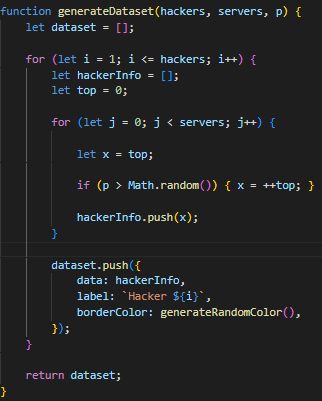
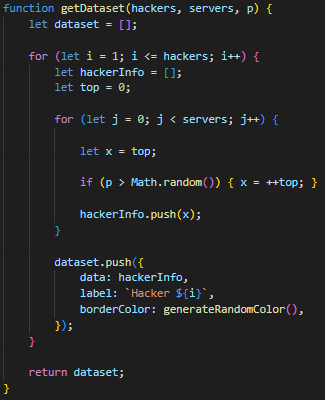
update hw1

diff --git a/_posts/statistics/2022-08-26-hw1.md b/_posts/statistics/2022-08-26-hw1.md
@@ -156,22 +156,181 @@ Other techniques such as **unnormalized arithmetic** and **interval arithmetic**
 [Online Attack Simulation](https://raffo24.github.io/statistics/hw1_code/)
 
 ## Main Function
-![image-center](/assets/images/blog/statistics/codes/mainFunHw1.png){: .align-center}
 
-This is the core function of the program, which executes the following steps:
-1. **Input Validation**: The function performs validation on the input to prevent potential errors and bugs.
-2. **Array Population**: It populates the `servers` and `hackers` arrays with sequential numbers.
-3. **Dataset Generation**: Using the `getDataset` function (which will be discussed later), it generates the dataset.
-4. **Maximum Breach Calculation**: It extracts the highest number of breaches performed by a single hacker from the dataset.
-5. **Interval Selection**: Based on a series of conditions, it determines the number of intervals to divide the breaches into.
-6. **Interval Window Calculation**: It calculates the window size for each interval based on the total number of breaches and the selected number of intervals.
-7. **Dataset Division**: The dataset is then divided into the relevant intervals for histogram plotting and distribution calculation.
-8. **Empty Space Removal**: Any leading empty spaces in the histogram are removed to ensure accurate visualization.
-9. **Plotting**: Finally, the program generates both the Flat Line Graph and the histogram for visual analysis.
+
+```javascript
+function generateGraphs() {
+    const n_servers = parseInt(document.getElementById('n').value);
+    const n_hackers = parseInt(document.getElementById('m').value);
+    const p = parseFloat(document.getElementById('p').value);
+
+    // Validate input
+    if (n_servers < 2 || n_servers > 500 || n_hackers < 1 || n_hackers > 500 || p < 0 || p > 1) {
+        alert('Please enter values in these intervals:\n- 2-500 for servers\n- 1-500 for hackers\n- 0-1 for probability.');
+        return;
+    }
+
+    const servers = [];
+    for (let i = 1; i <= n_servers; i++) { servers.push(i); }
+
+    const hackers = [];
+    for (let i = 1; i <= n_hackers; i++) { hackers.push(i); }
+
+    const breachDatasets = getDataset(hackers.length, servers.length, p);
+
+    const maxSuccesses = Math.max(...breachDatasets.flatMap(dataset => dataset.data));
+
+    let intervalCount = 5;
+    if (maxSuccesses >= 20) {
+        intervalCount = 15;
+    } else if (maxSuccesses >= 50) {
+        intervalCount = 30;
+    } else if (maxSuccesses >= 100) {
+        intervalCount = 87;
+    } else if (maxSuccesses >= 200) {
+        intervalCount = 170;
+    } else if (maxSuccesses >= 300) {
+        intervalCount = 270;
+    } else if (maxSuccesses >= 400) {
+        intervalCount = 390;
+    }
+
+    const intervalSize = Math.ceil(maxSuccesses / intervalCount);
+    const intervals = Array.from({ length: intervalCount }, (_, i) => `${i * intervalSize}-${(i + 1) * intervalSize}`);
+
+    const distributionCounts = Array(intervalCount).fill(0);
+    breachDatasets.forEach(dataset => {
+        const index = Math.floor(dataset.data.at(-1) / intervalSize);
+        if (index >= 0 && index < intervalCount) { distributionCounts[index]++; }
+    });
+
+    while (distributionCounts[0] === 0) {
+        distributionCounts.shift();
+        intervals.shift();
+    }
+
+    plotFlatLineChart(servers, hackers, breachDatasets);
+    plotHistogram(intervals, distributionCounts);
+
+    document.getElementById('charts').style.display = 'flex';
+}
+```
+
+1. **Input Parsing**: The function starts by retrieving the values from the HTML input fields for `n_servers` (number of servers), `n_hackers` (number of hackers), and `p` (probability of a successful breach). These values are parsed and stored in variables:
+   ```javascript
+   const n_servers = parseInt(document.getElementById('n').value);
+   const n_hackers = parseInt(document.getElementById('m').value);
+   const p = parseFloat(document.getElementById('p').value);
+   ```
+
+2. **Input Validation**: It checks if the input values are within the acceptable ranges. If `n_servers` or `n_hackers` are outside the ranges (2 to 500 for servers and 1 to 500 for hackers), or if `p` is not between 0 and 1, the function issues an alert and exits:
+   ```javascript
+   if (n_servers < 2 || n_servers > 500 || n_hackers < 1 || n_hackers > 500 || p < 0 || p > 1) {
+      alert('Please enter values in these intervals:\n- 2-500 for servers\n- 1-500 for hackers\n- 0-1 for probability.');
+      return;
+   }
+   ```
+
+3. **Array Population**: It creates two arrays, `servers` and `hackers`, each populated with sequential numbers representing server and hacker IDs:
+   ```javascript
+   const servers = [];
+   for (let i = 1; i <= n_servers; i++) { servers.push(i); }
+
+   const hackers = [];
+   for (let i = 1; i <= n_hackers; i++) { hackers.push(i); }
+   ```
+
+4. **Dataset Generation**: The function then calls `getDataset()` (presumably defined elsewhere) to generate a dataset of simulated breaches. It passes the number of hackers, servers, and the probability `p` as arguments. The resulting dataset is stored in `breachDatasets`:
+   ```javascript
+   const breachDatasets = getDataset(hackers.length, servers.length, p);
+   ```
+
+5. **Maximum Breach Count Extraction**: It calculates the maximum number of successful breaches across all hackers by iterating through `breachDatasets` and flattening the dataset to find the highest number of successes:
+   ```javascript
+   const maxSuccesses = Math.max(...breachDatasets.flatMap(dataset => dataset.data));
+   ```
+
+6. **Interval Count Determination**: The number of intervals (`intervalCount`) to divide the breaches into is decided based on the value of `maxSuccesses`. Depending on thresholds (e.g., if breaches are greater than 50, 100, 200, etc.), different numbers of intervals are used to provide meaningful visualization:
+   ```javascript
+   let intervalCount = 5;
+   if (maxSuccesses >= 20) { intervalCount = 15; }
+   else if (maxSuccesses >= 50) { intervalCount = 30; }
+   else if (maxSuccesses >= 100) { intervalCount = 50; }
+   // Other conditions omitted for brevity...
+   ```
+
+7. **Interval Size Calculation**: The interval size is calculated by dividing `maxSuccesses` by `intervalCount`, which determines the range of breaches each interval will cover. An array `intervals` is created, with each entry representing the lower and upper bounds of each interval:
+   ```javascript
+   const intervalSize = Math.ceil(maxSuccesses / intervalCount);
+   const intervals = Array.from({ length: intervalCount }, (_, i) => `${i * intervalSize}-${(i + 1) * intervalSize}`);
+   ```
+
+8. **Data Binning**: The function initializes an array `distributionCounts` to store the number of breaches that fall within each interval. It then iterates through `breachDatasets` and determines which interval each data point belongs to. The count for that interval is incremented:
+   ```javascript
+   const distributionCounts = Array(intervalCount).fill(0);
+   breachDatasets.forEach(dataset => {
+      const index = Math.floor(dataset.data.at(-1) / intervalSize);
+      if (index >= 0 && index < intervalCount) { distributionCounts[index]++; }
+   });
+   ```
+
+9. **Empty Interval Removal**: If any of the leading intervals in `distributionCounts` are empty (i.e., have zero breaches), they are removed from the `intervals` array to avoid displaying unnecessary empty bins in the histogram:
+   ```javascript
+   while (distributionCounts[0] === 0) {
+      distributionCounts.shift();
+      intervals.shift();
+   }
+   ```
+
+10. **Graph Plotting**: The function finally calls two plotting functions, `plotFlatLineChart()` and `plotHistogram()`, to visualize the data. It passes the `servers`, `hackers`, and `breachDatasets` arrays to the first function and the `intervals` and `distributionCounts` arrays to the second. The results are displayed in the DOM element with ID `charts`:
+   ```javascript
+   plotFlatLineChart(servers, hackers, breachDatasets);
+   plotHistogram(intervals, distributionCounts);
+   document.getElementById('charts').style.display = 'flex';
+   ```
+
+This version goes deeper into the details of the variables and the flow of the function. Let me know if you'd like further refinements!
 
 ## Second Function
 
-![image-center](/assets/images/blog/statistics/codes/genDatasetHw1.png){: .align-center}
+```javascript
+function getDataset(hackers, servers, p) {
+    let dataset = [];
+
+    for (let i = 1; i <= hackers; i++) {
+        let hackerInfo = [];
+        let top = 0;
+
+        for (let j = 0; j < servers; j++) {
+
+            let x = top;
+
+            if (p > Math.random()) { x = ++top; }
+
+            hackerInfo.push(x);
+        }
+
+        dataset.push({
+            data: hackerInfo,
+            label: `Hacker ${i}`,
+            borderColor: generateRandomColor(),
+        });
+    }
+
+    return dataset;
+}
+```
+
+1. The function `genDataset` takes three parameters: `hackers`, `servers`, and `p`.
+2. An empty array `dataset` is initialized to hold the generated data.
+3. A loop runs for each hacker, creating an empty array `hackerInfo` for each one.
+4. The variable `top` is initialized to 0 to track "successes."
+5. For each hacker, another loop iterates over the servers.
+6. In each iteration, `p` is compared to a random value generated by `Math.random()`.
+7. If `p` is greater than the random value, `top` is incremented.
+8. Each result (`x`) is stored in the `hackerInfo` array.
+9. After the loop for a hacker, the data is pushed into `dataset`, with a label and a color.
+10. The function returns the `dataset` array containing the information for all hackers.
 
 ## References
 
